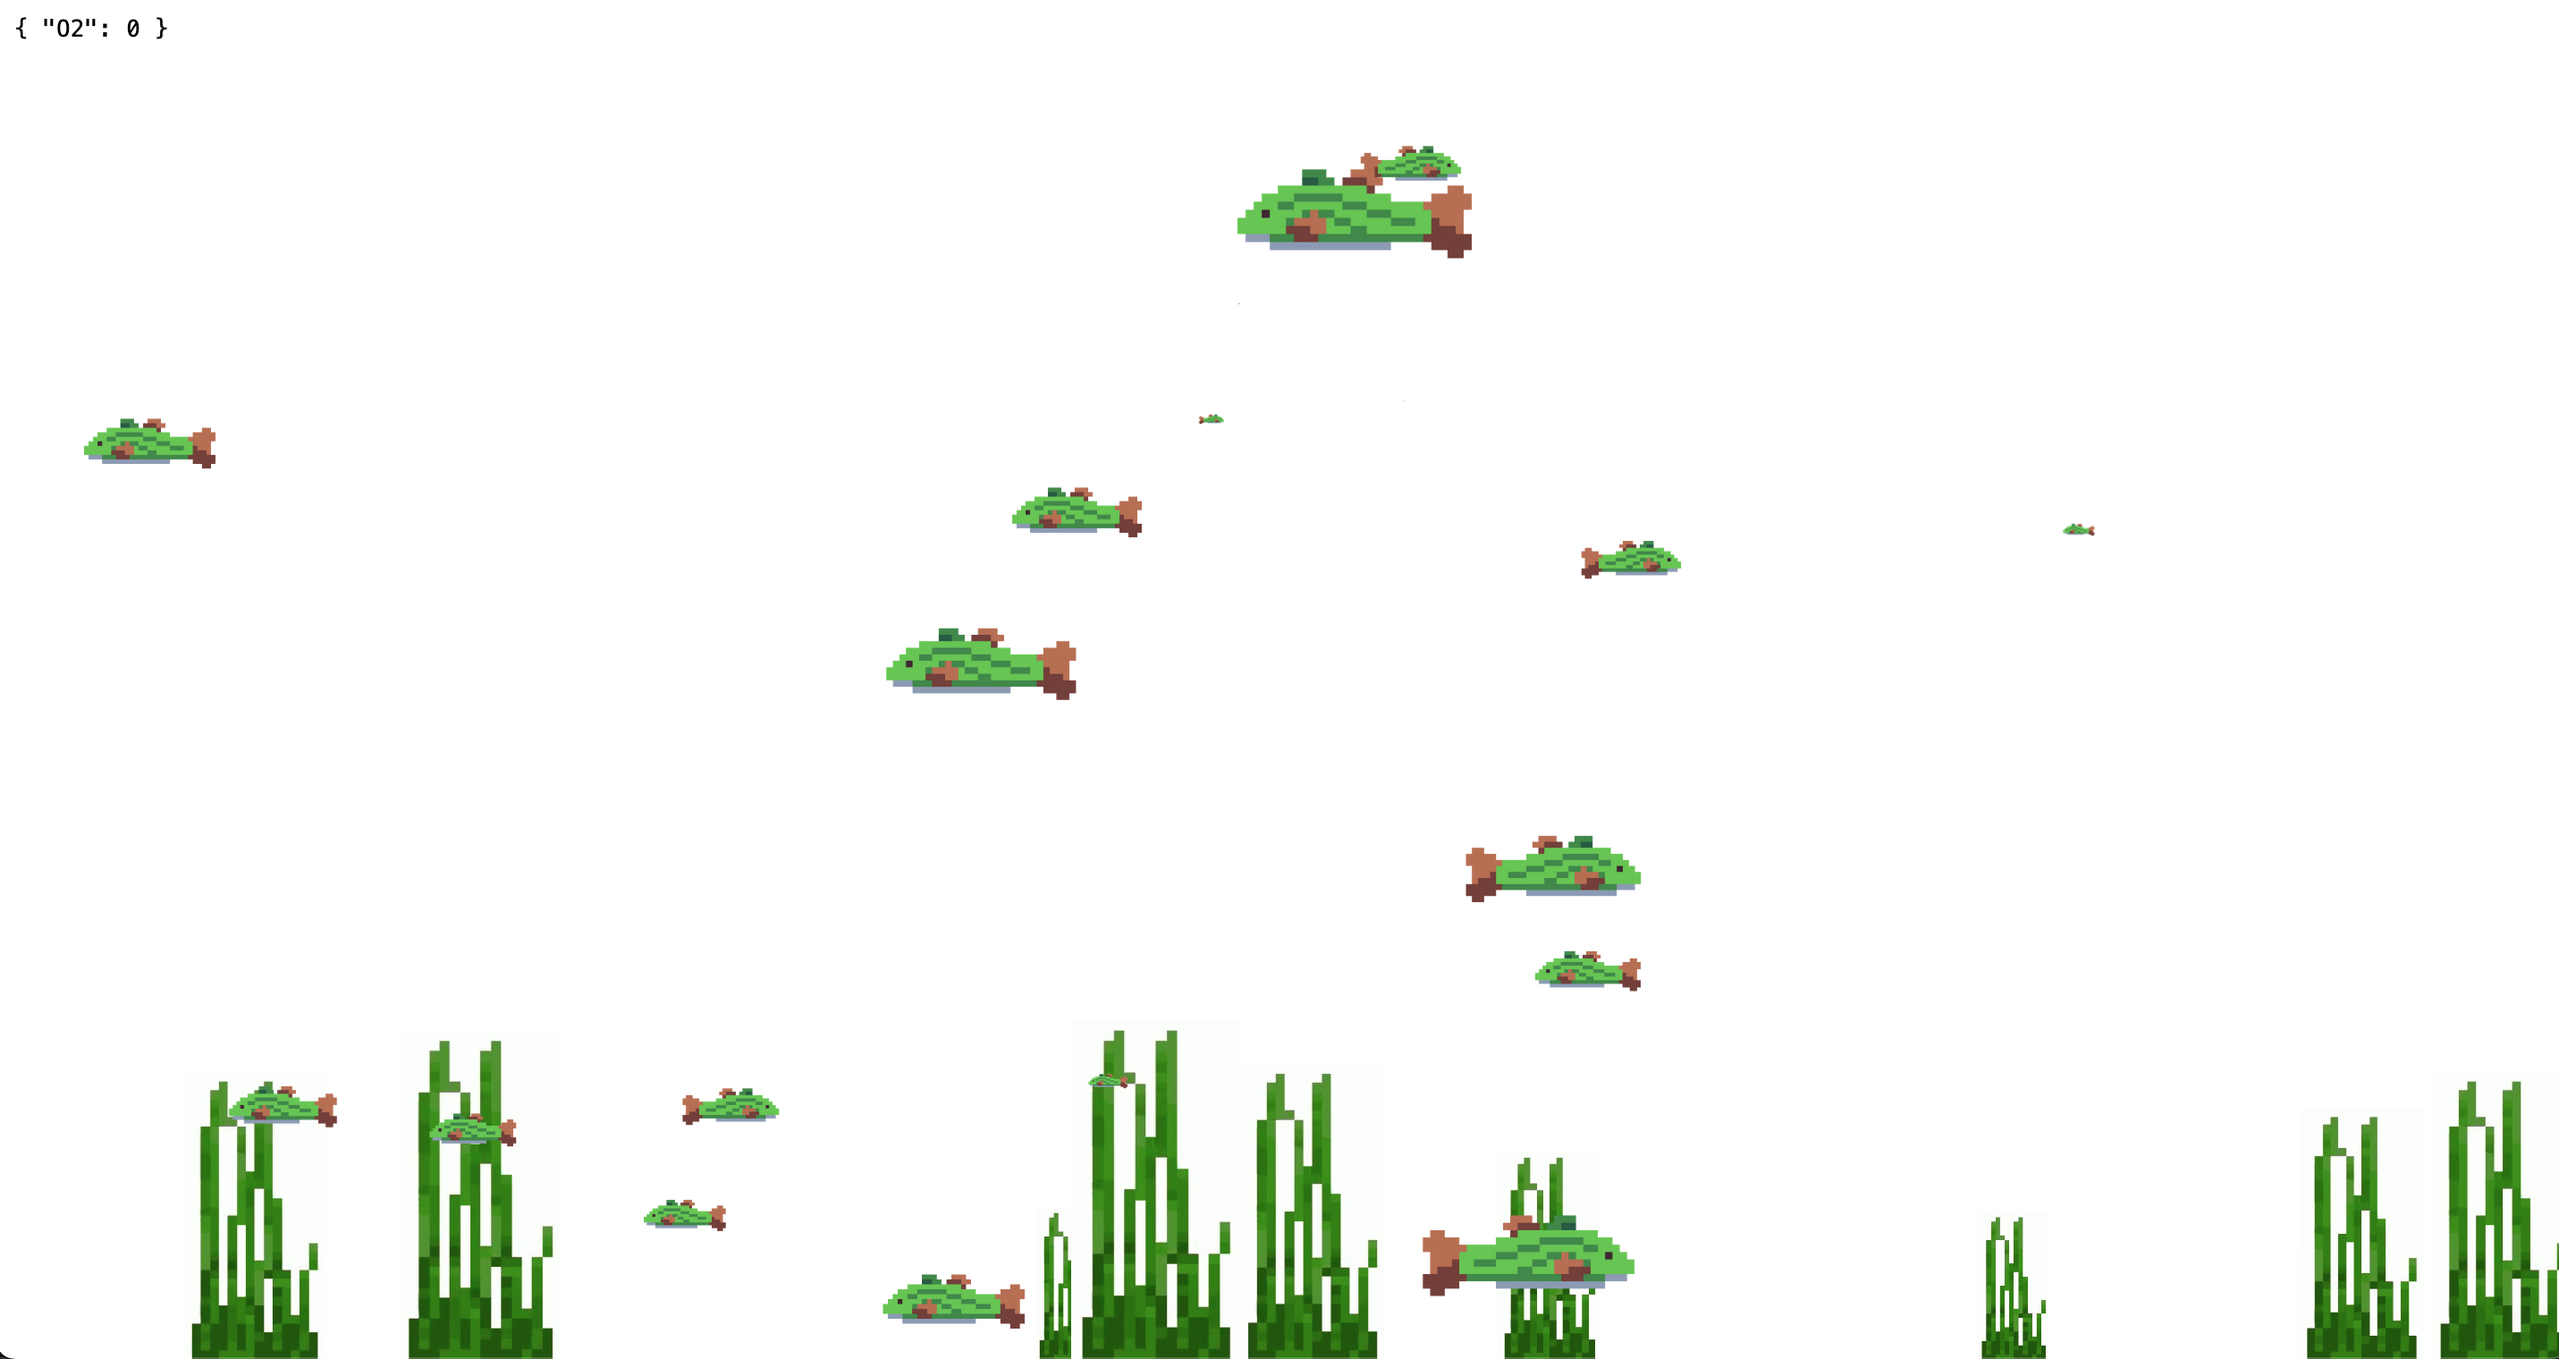
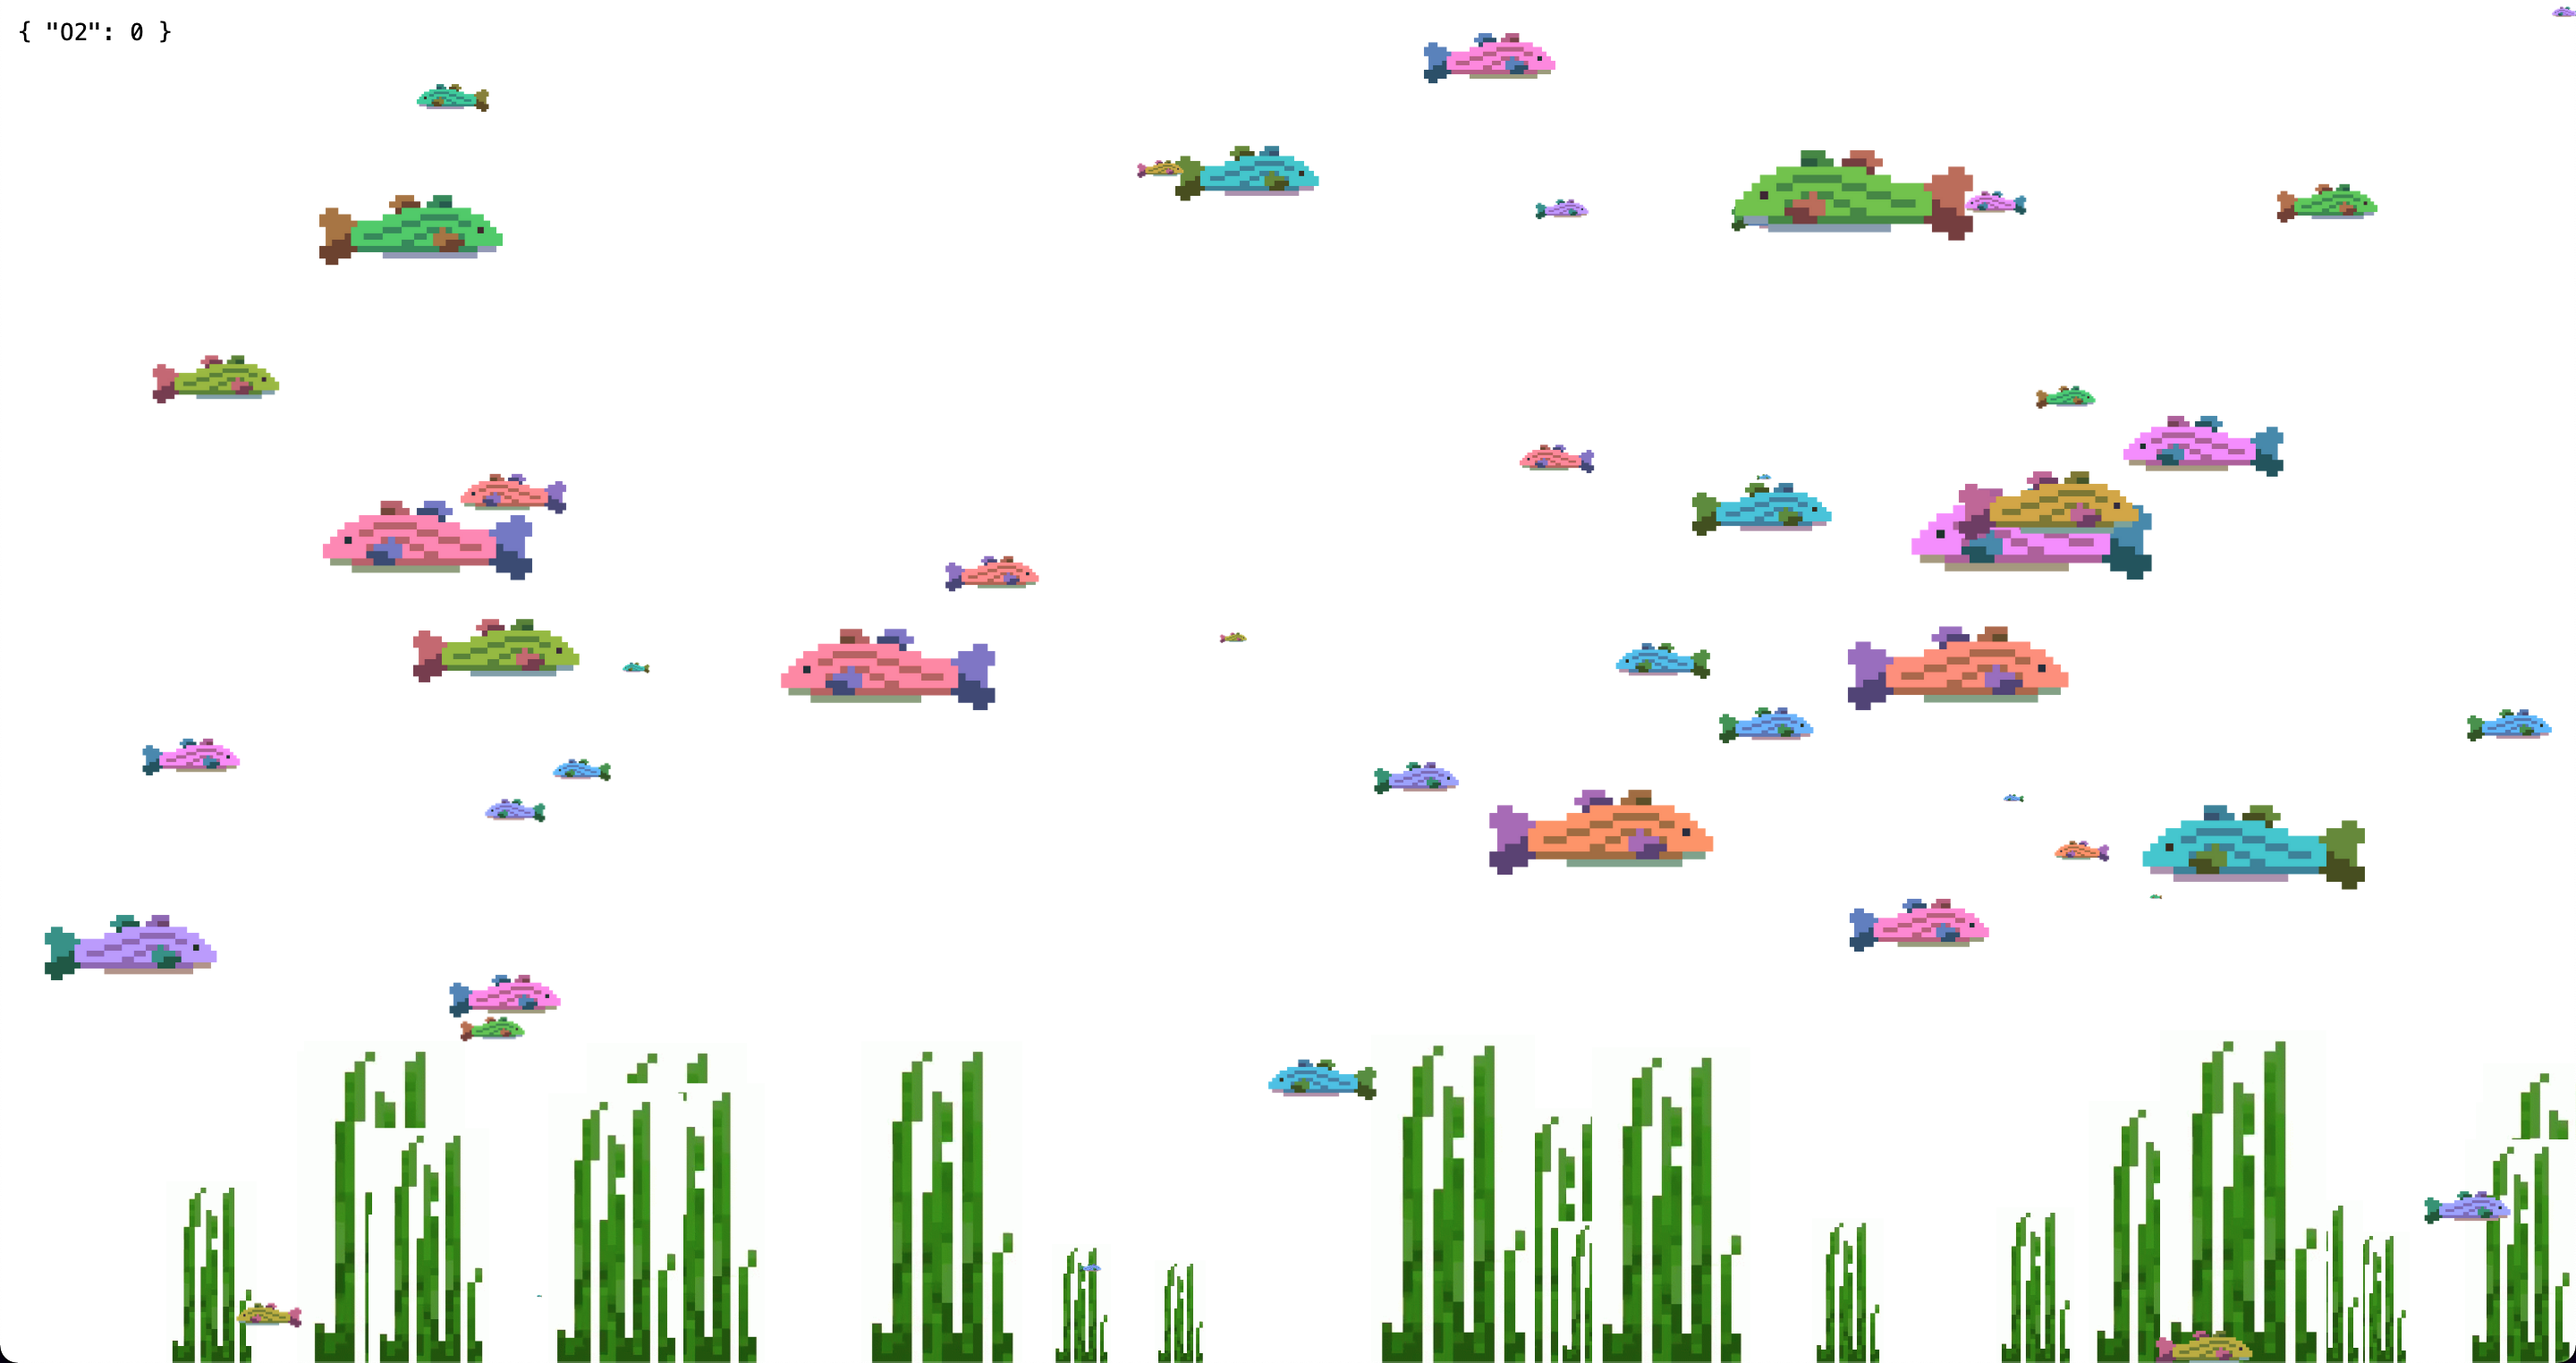
Fish have different colours!

diff --git a/sketch.js b/sketch.js
@@ -5,8 +5,8 @@ import { times, Debugging } from './utils.js'
 const water = new Water()
 const creatures = []
 
-times(10, () => creatures.push(new Alga()))
-times(1, () => creatures.push(new Fish()))
+times(30, () => creatures.push(new Alga()))
+times(50, () => creatures.push(new Fish()))
 
 function mainLoop() {
   Debugging.render({ O2: water.oxygen.getLevel() })

diff --git a/organisms/Fish.js b/organisms/Fish.js
@@ -36,9 +36,13 @@ export class Fish extends Organism {
   }
 
   _render() {
+    const color = random(0, 360)
     return this.draw
       .image(this._image())
       .size(this.size, this.size)
+      .attr({
+        filter: `hue-rotate(${color}deg)`
+      })
   }
 
   _image(){
